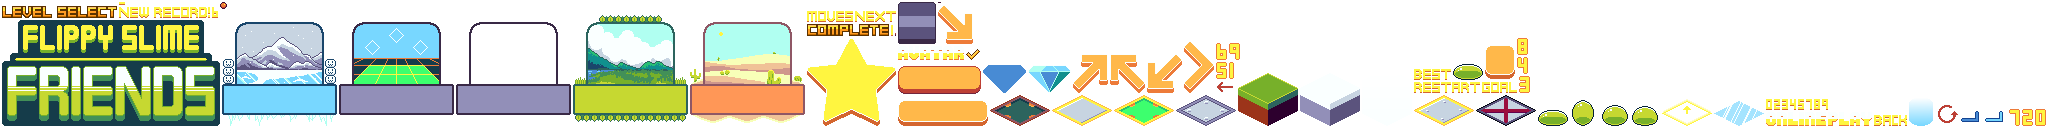
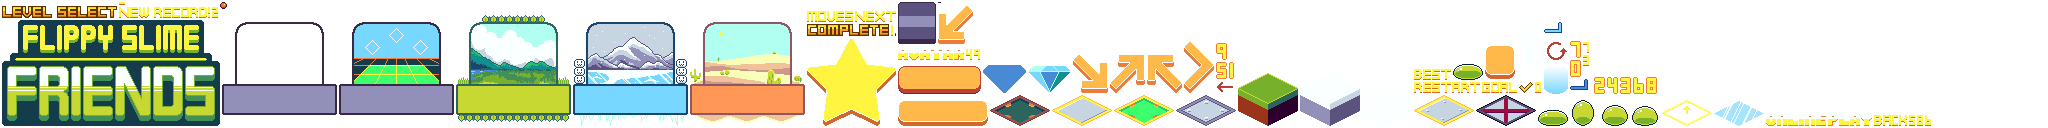
update level finish ui some more

diff --git a/core/src/com/distraction/fs2/Utils.kt b/core/src/com/distraction/fs2/Utils.kt
@@ -32,6 +32,15 @@ fun Int.pmod(other: Int): Int {
     return p
 }
 
+/**
+ * Map in place
+ */
+fun <T> MutableList<T>.mapInPlace(mapper: (T) -> (T)) {
+    forEachIndexed { index, value ->
+        this[index] = mapper(value)
+    }
+}
+
 fun AssetManager.getAtlas(): TextureAtlas = get("fs2.atlas", TextureAtlas::class.java)
 
 inline fun SpriteBatch.use(action: () -> Unit) {
@@ -87,13 +96,7 @@ fun SpriteBatch.drawHFlip(
     w: Float = textureRegion.regionWidth.toFloat(),
     h: Float = textureRegion.regionHeight.toFloat()
 ) {
-    draw(
-        textureRegion,
-        x,
-        y,
-        -textureRegion.regionWidth.toFloat(),
-        textureRegion.regionHeight.toFloat()
-    )
+    draw(textureRegion, x, y, -w, h)
 }
 
 fun SpriteBatch.drawVFlip(textureRegion: TextureRegion, x: Float, y: Float) {
@@ -116,15 +119,22 @@ fun SpriteBatch.drawVHFlip(textureRegion: TextureRegion, x: Float, y: Float) {
     )
 }
 
-fun SpriteBatch.drawRotated(textureRegion: TextureRegion, x: Float, y: Float, degrees: Float) {
+fun SpriteBatch.drawRotated(
+    image: TextureRegion,
+    x: Float,
+    y: Float,
+    degrees: Float,
+    originx: Float = image.regionWidth / 2f,
+    originy: Float = image.regionHeight / 2f
+) {
     draw(
-        textureRegion,
-        x,
-        y,
-        textureRegion.regionWidth / 2f,
-        textureRegion.regionHeight / 2f,
-        1f * textureRegion.regionWidth,
-        1f * textureRegion.regionHeight,
+        image,
+        x - image.regionWidth / 2f,
+        y - image.regionHeight / 2f,
+        originx,
+        originy,
+        1f * image.regionWidth,
+        1f * image.regionHeight,
         1f,
         1f,
         degrees
@@ -137,6 +147,10 @@ fun SpriteBatch.resetColor() {
 
 fun SpriteBatch.setColor(color: GameColor) {
     setColor(color.r, color.g, color.b, color.a)
+}
+
+fun SpriteBatch.setColor(color: GameColor, a: Float) {
+    setColor(color.r, color.g, color.b, a)
 }
 
 fun SpriteBatch.setAlpha(a: Float) {

diff --git a/core/src/com/distraction/fs2/HUD.kt b/core/src/com/distraction/fs2/HUD.kt
@@ -29,22 +29,22 @@ class HUD(context: Context, private val buttonListener: ButtonListener) {
         LEFT to
                 ImageButton(
                     context.getImage("upleftarrow"),
-                    a.x - dist, a.y + dist
+                    a.x - dist, a.y + dist, 5f
                 ),
         UP to
                 ImageButton(
                     context.getImage("uprightarrow"),
-                    a.x + dist, a.y + dist
+                    a.x + dist, a.y + dist, 5f
                 ),
         RIGHT to
                 ImageButton(
                     context.getImage("downrightarrow"),
-                    a.x + dist, a.y - dist
+                    a.x + dist, a.y - dist, 5f
                 ),
         DOWN to
                 ImageButton(
                     context.getImage("downleftarrow"),
-                    a.x - dist, a.y - dist
+                    a.x - dist, a.y - dist, 5f
                 )
     )
     private val uiButtons = mapOf(
@@ -140,10 +140,9 @@ class HUD(context: Context, private val buttonListener: ButtonListener) {
 
     fun render(sb: SpriteBatch) {
         sb.projectionMatrix = topCam.combined
-        sb.setColor(GameColor.DARK_TEAL)
+        sb.setColor(GameColor.DARK_TEAL, 0.5f)
         sb.draw(pixel, 0f, Constants.HEIGHT - HEIGHT, Constants.WIDTH, HEIGHT)
         sb.resetColor()
-        sb.draw(pixel, 0f, Constants.HEIGHT - HEIGHT + 2f, Constants.WIDTH, 1f)
         labels.forEach { it.render(sb) }
         uiButtons.values.forEach { it.render(sb) }
 
@@ -152,7 +151,7 @@ class HUD(context: Context, private val buttonListener: ButtonListener) {
     }
 
     companion object {
-        const val HEIGHT = 50f
+        const val HEIGHT = 48f
     }
 }
 

diff --git a/core/src/com/distraction/fs2/states/LevelFinishState.kt b/core/src/com/distraction/fs2/states/LevelFinishState.kt
@@ -45,10 +45,7 @@ class LevelFinishState(
             context.getImage("diamondfinishempty"),
             Constants.WIDTH / 2f + 80f,
             Constants.HEIGHT / 2 - infoBox.height / 2 + 64f
-        ).apply {
-            alpha = 0f
-            scale = 20f
-        }
+        )
 
     private val diamond =
         ImageButton(
@@ -69,6 +66,8 @@ class LevelFinishState(
             alpha = 0f
             scale = 20f
         }
+
+    private val lights = SpinningLights(context, star.pos.x, star.pos.y, 5, -40f)
 
     private val bestLabel = NumberLabel(
         context,
@@ -180,8 +179,6 @@ class LevelFinishState(
                 scale = 1f
             }
 
-            diamondEmpty.alpha = alpha
-            diamondEmpty.scale = scale
             diamond.alpha = alpha
             diamond.scale = scale
             star.alpha = alpha
@@ -189,6 +186,7 @@ class LevelFinishState(
         }
         camera.position.lerp(Constants.WIDTH / 2f, Constants.HEIGHT / 2f, 0f, 0.1f)
         camera.update()
+        lights.update(dt)
     }
 
     override fun render(sb: SpriteBatch) {
@@ -205,6 +203,9 @@ class LevelFinishState(
             diamondEmpty.render(sb)
             if (moves == goal) {
                 diamond.render(sb)
+            }
+            if (star.scale < 2) {
+                lights.render(sb)
             }
             star.render(sb)
             completeImage.render(sb)

diff --git a/core/src/com/distraction/fs2/SpinningLights.kt b/core/src/com/distraction/fs2/SpinningLights.kt
@@ -1,0 +1,25 @@
+package com.distraction.fs2
+
+import com.badlogic.gdx.graphics.g2d.SpriteBatch
+
+class SpinningLights(context: Context, x: Float, y: Float, spokes: Int, val rotationSpeedDeg: Float = -360f) :
+    ImageButton(context.getImage("pixel"), x, y) {
+
+    private val spotlight = context.getImage("spotlight")
+    private val degrees = MutableList(spokes) { it * 360f / spokes }
+
+    init {
+        pos.y = y + spotlight.regionHeight / 2f
+    }
+
+    override fun update(dt: Float) {
+        degrees.mapInPlace { it + rotationSpeedDeg * dt }
+    }
+
+    override fun render(sb: SpriteBatch) {
+        degrees.forEach {
+            sb.drawRotated(spotlight, pos.x, pos.y, it, spotlight.regionWidth / 2f, 0f)
+        }
+    }
+
+}

diff --git a/core/src/com/distraction/fs2/ImageButton.kt b/core/src/com/distraction/fs2/ImageButton.kt
@@ -49,7 +49,7 @@ open class ImageButton(
                 && pos.y + scaledHeight / 2 + padding >= y
     }
 
-    fun update(dt: Float) {
+    open fun update(dt: Float) {
         if (lerpAlpha >= 0f) {
             pos.lerp(destination, lerpAlpha)
         }
